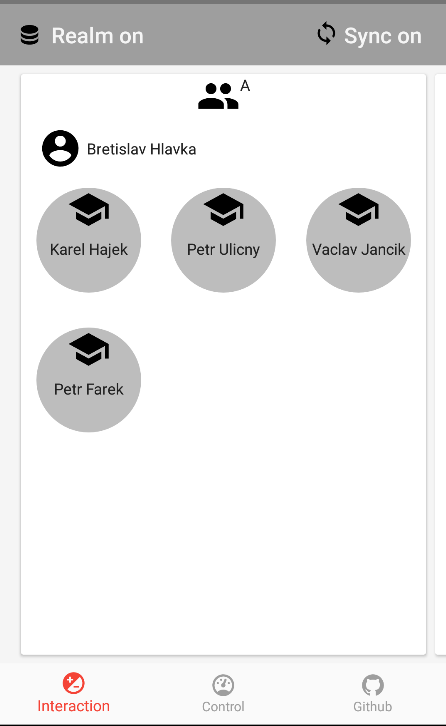
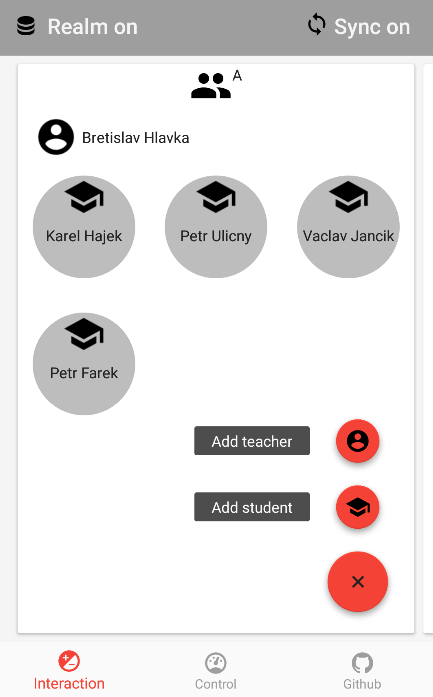
Add view elements as the template for adding items to class.

diff --git a/mobile/src/main/java/cz/koto/misak/dbshowcase/android/mobile/ui/interaction/InteractionAddCardViewModel.java b/mobile/src/main/java/cz/koto/misak/dbshowcase/android/mobile/ui/interaction/InteractionAddCardViewModel.java
@@ -1,0 +1,73 @@
+package cz.koto.misak.dbshowcase.android.mobile.ui.interaction;
+
+
+import cz.koto.misak.dbshowcase.android.mobile.R;
+import cz.koto.misak.dbshowcase.android.mobile.model.DataHandlerListener;
+import cz.koto.misak.dbshowcase.android.mobile.model.ModelProvider;
+import cz.koto.misak.dbshowcase.android.mobile.model.SchoolModel;
+import cz.koto.misak.dbshowcase.android.mobile.model.utility.SchoolModelGenerator;
+import cz.koto.misak.dbshowcase.android.mobile.persistence.realm.model.SchoolClassRealmEntity;
+import cz.koto.misak.dbshowcase.android.mobile.ui.StateListener;
+import cz.koto.misak.dbshowcase.android.mobile.ui.navigation.NavigationProvider;
+import timber.log.Timber;
+
+
+public class InteractionAddCardViewModel implements InteractionCard, DataHandlerListener {
+
+	private NavigationProvider mNavigationProvider;
+	private StateListener mStateListener;
+
+
+	public InteractionAddCardViewModel(NavigationProvider navigationProvider, StateListener stateListener) {
+		mNavigationProvider = navigationProvider;
+		mStateListener = stateListener;
+	}
+
+
+	public static InteractionCard getInstance(NavigationProvider navigationProvider, StateListener stateListener) {
+		return new InteractionAddCardViewModel(navigationProvider, stateListener);
+	}
+
+
+	public int getPagerLayoutResource() {
+		return R.layout.item_interaction_add_card;
+	}
+
+
+	@Override
+	public void handleSuccess() {
+		if(mStateListener != null)
+			mStateListener.setContent();
+		mNavigationProvider.getNavigationManager().getInteractionNavigationManager().switchToRoot();
+	}
+
+
+	@Override
+	public void handleFailed(Throwable throwable) {
+		if(mStateListener != null)
+			mStateListener.setContent();
+		Timber.e(throwable, "InteractionAddCardViewModel was unable to add new school class!");
+	}
+
+
+	public void addCompleteRandomSchoolClass() {
+		if(mStateListener != null)
+			mStateListener.setProgress();
+		SchoolModel model = ModelProvider.get().getSchoolModel();
+		SchoolClassRealmEntity s = SchoolModelGenerator.generateSchoolClassRealmEntity(model.getTeachersCount(),
+				model.getStudentsCount(), model.getSchoolClassCount());
+		ModelProvider.get().addSchoolClass(s, this);
+	}
+
+
+	public void downloadSchoolClassFromApi() {
+		if(mStateListener != null)
+			mStateListener.setProgress();
+		ModelProvider.get().initModelFromApi(this);
+	}
+
+
+	public Boolean isNetworkAvailable() {
+		return true;
+	}
+}

diff --git a/mobile/src/main/java/cz/koto/misak/dbshowcase/android/mobile/ui/interaction/InteractionAddElementViewModel.java b/mobile/src/main/java/cz/koto/misak/dbshowcase/android/mobile/ui/interaction/InteractionAddElementViewModel.java
@@ -12,25 +12,25 @@ import cz.koto.misak.dbshowcase.android.mobile.ui.navigation.NavigationProvider;
 import timber.log.Timber;
 
 
-public class InteractionAddViewModel implements InteractionCard, DataHandlerListener {
+public class InteractionAddElementViewModel implements InteractionCard, DataHandlerListener {
 
 	private NavigationProvider mNavigationProvider;
 	private StateListener mStateListener;
 
 
-	public InteractionAddViewModel(NavigationProvider navigationProvider, StateListener stateListener) {
+	public InteractionAddElementViewModel(NavigationProvider navigationProvider, StateListener stateListener) {
 		mNavigationProvider = navigationProvider;
 		mStateListener = stateListener;
 	}
 
 
 	public static InteractionCard getInstance(NavigationProvider navigationProvider, StateListener stateListener) {
-		return new InteractionAddViewModel(navigationProvider, stateListener);
+		return new InteractionAddElementViewModel(navigationProvider, stateListener);
 	}
 
 
 	public int getPagerLayoutResource() {
-		return R.layout.item_interaction_add;
+		return R.layout.item_interaction_add_card;
 	}
 
 
@@ -46,7 +46,7 @@ public class InteractionAddViewModel implements InteractionCard, DataHandlerList
 	public void handleFailed(Throwable throwable) {
 		if(mStateListener != null)
 			mStateListener.setContent();
-		Timber.e(throwable, "InteractionAddViewModel was unable to add new school class!");
+		Timber.e(throwable, "InteractionAddCardViewModel was unable to add new school class!");
 	}
 
 

diff --git a/mobile/src/main/java/cz/koto/misak/dbshowcase/android/mobile/ui/interaction/InteractionRootViewModel.java b/mobile/src/main/java/cz/koto/misak/dbshowcase/android/mobile/ui/interaction/InteractionRootViewModel.java
@@ -94,7 +94,7 @@ public class InteractionRootViewModel extends BaseViewModel<cz.koto.misak.dbshow
 					.toList().blockingGet();
 		}
 		if(mCardItemList == null) mCardItemList = new ArrayList<>();
-		mCardItemList.add(InteractionAddViewModel.getInstance(this, this));
+		mCardItemList.add(InteractionAddCardViewModel.getInstance(this, this));
 		return mCardItemList;
 	}
 

diff --git a/mobile/src/main/java/cz/koto/misak/dbshowcase/android/mobile/ui/interaction/InteractionItemViewModel.java b/mobile/src/main/java/cz/koto/misak/dbshowcase/android/mobile/ui/interaction/InteractionItemViewModel.java
@@ -89,4 +89,14 @@ public class InteractionItemViewModel extends BaseObservable implements Interact
 				.toList().blockingGet();
 	}
 
+
+	public void addStudent() {
+
+	}
+
+
+	public void addTeacher() {
+
+	}
+
 }

diff --git a/readme.md b/readme.md
@@ -1,6 +1,7 @@
 #Android local database showcase
 
-![DbShowcase](./mobile/src/main/res/mipmap-hdpi/ic_launcher.png "DbShowcase")
+![DbShowcase](./mobile/src/main/res/mipmap-hdpi/ic_launcher.png "DbShowcase") <a href="https://play.google.com/store/apps/details?id=cz.koto.misak.dbshowcase.android"><img src="./extras/banner/google-play-badge.png" height="72"/></a>
+
 
 This is sample of local database implementation for small set of Android related local databases.
 
